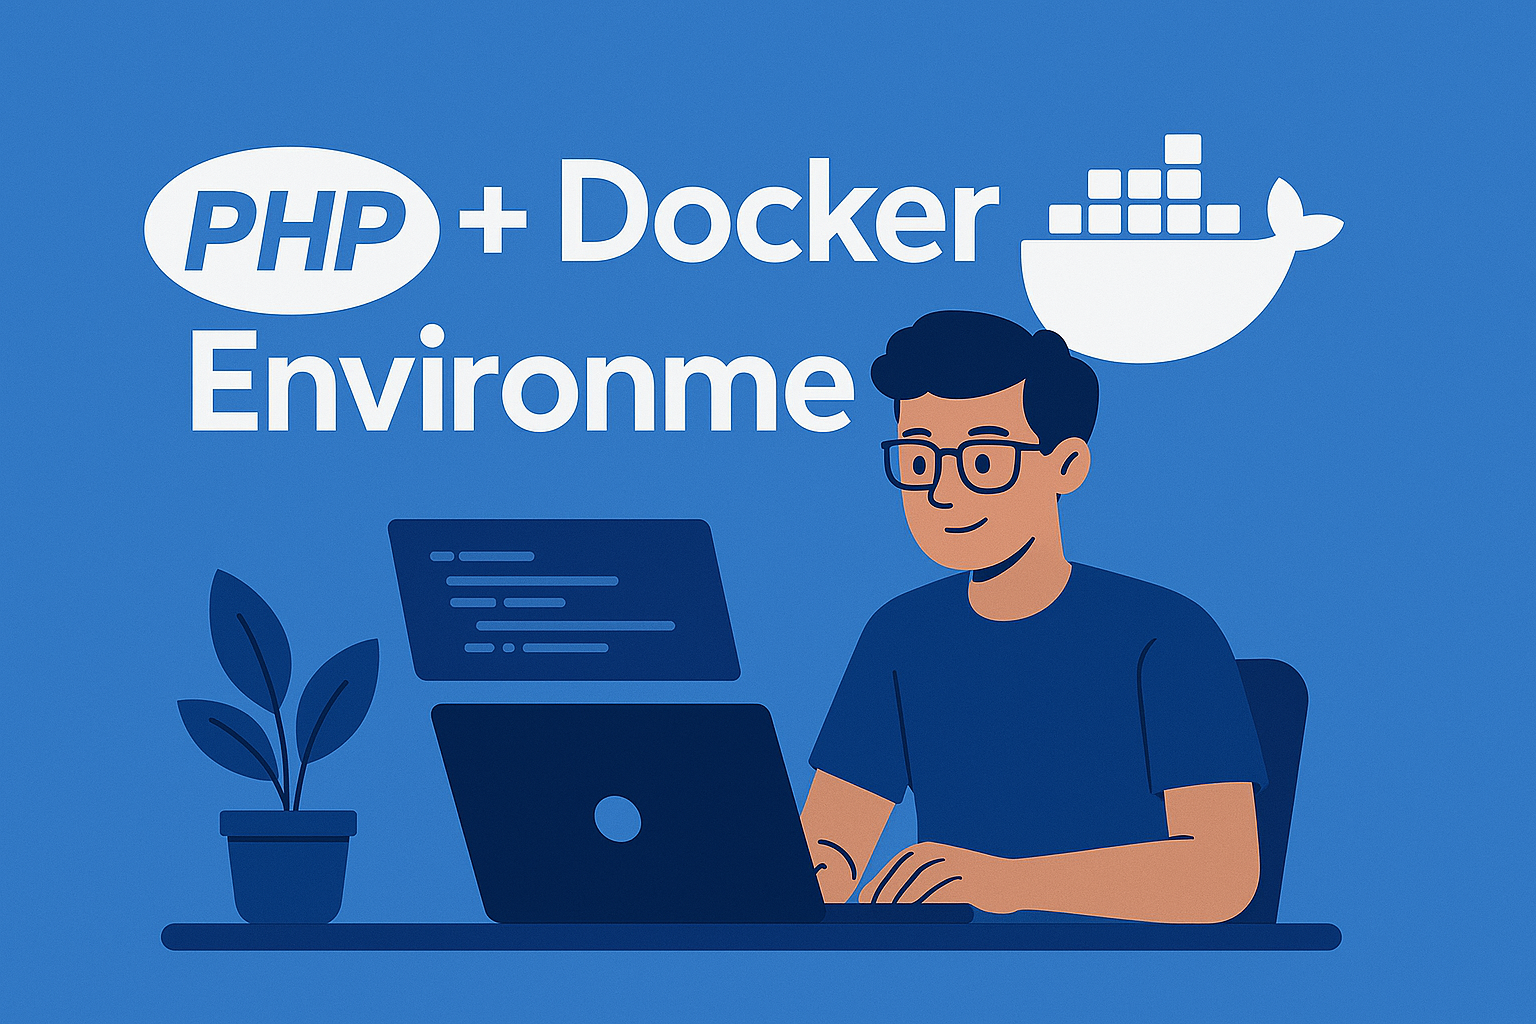
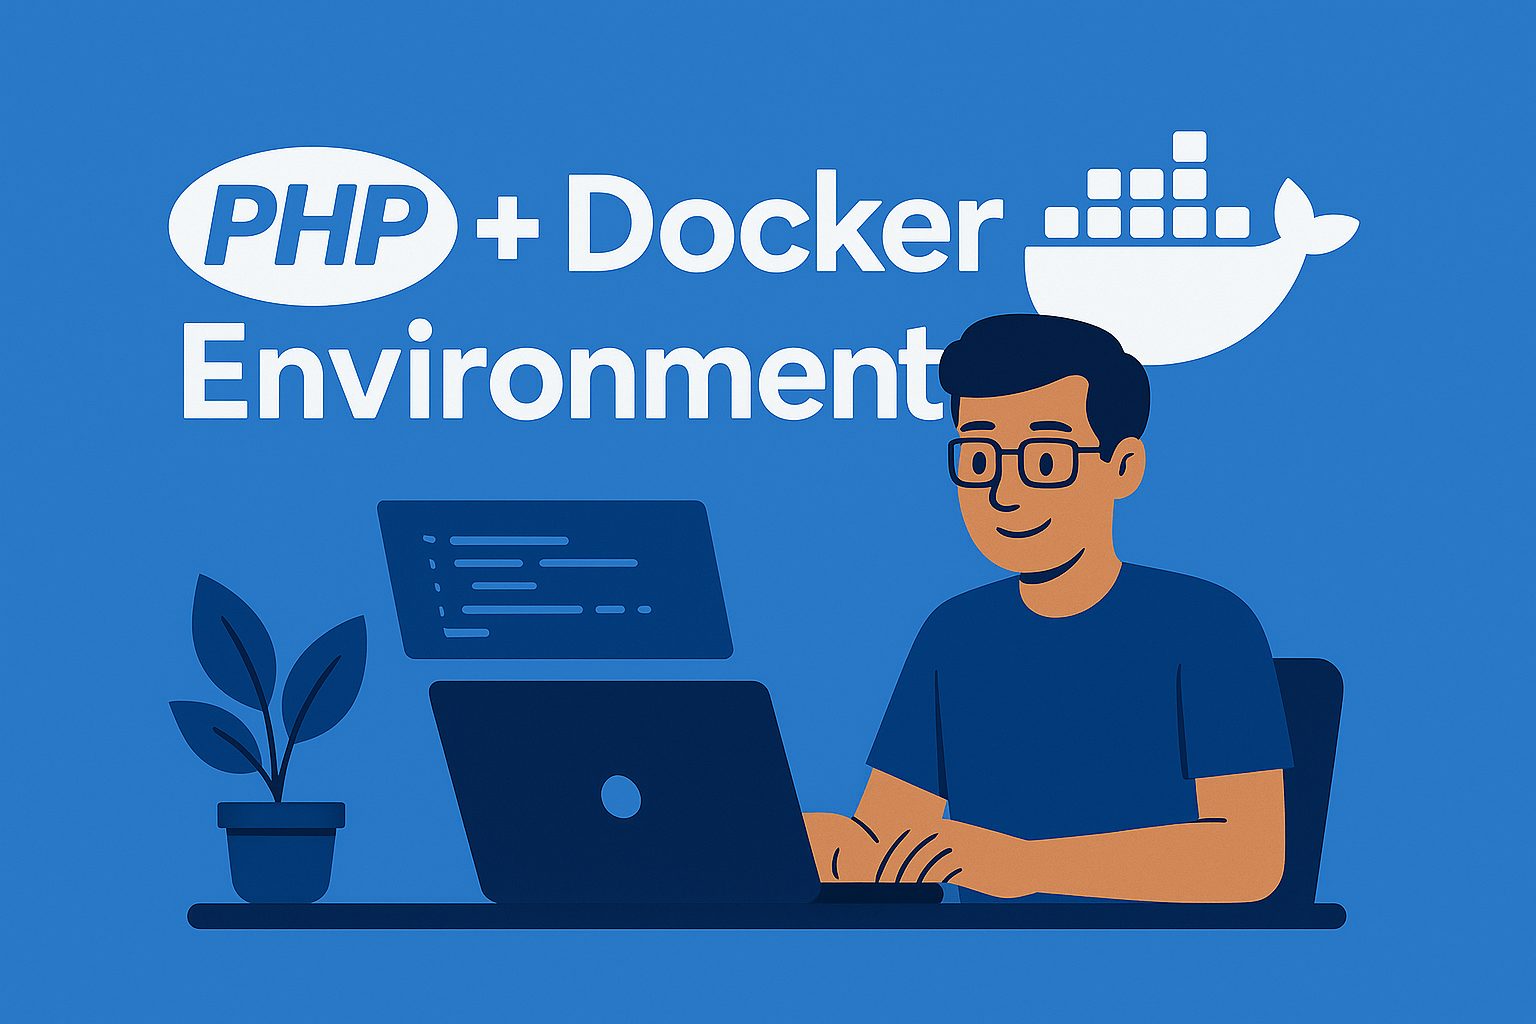
Reestruturado a tela de boas-vindas ao projeto, e ajustado a imagem do readme

Changed region(s): [[0.0938, 0.125, 0.9062, 0.9375], [0.375, 0.75, 0.4375, 0.8438]]

diff --git a/public/index.php b/public/index.php
@@ -1,4 +1,3 @@
-<?php declare(strict_types=1); ?>
 <!DOCTYPE html>
 <html lang="pt-br">
 <head>
@@ -13,7 +12,7 @@
             padding: 0;
         }
         .container {
-            max-width: 540px;
+            width: 60%;
             margin: 60px auto;
             background: #fff;
             border-radius: 12px;
@@ -21,10 +20,15 @@
             padding: 32px 28px;
             text-align: center;
         }
+        h1 {
+            font-size: 32pt;
+            margin-bottom: 4rem;
+        }
         h1, h2 {
             color: #0070f3;
-            margin-bottom: 12px;
+            margin-bottom: 2rem;
         }
+
         .tech-list {
             display: flex;
             flex-wrap: wrap;
@@ -46,7 +50,8 @@
         .desc {
             color: #444;
             font-size: 1.08em;
-            margin-bottom: 24px;
+            margin-top: 4rem;
+            margin-bottom: 4rem;
         }
         .section-title {
             font-size: 1.15em;
@@ -62,7 +67,6 @@
             padding: 18px 18px 12px 18px;
             margin: 0 auto 18px auto;
             font-size: 1em;
-            max-width: 420px;
             box-shadow: 0 1px 4px rgba(0,0,0,0.03);
         }
         .commands code {
@@ -100,13 +104,11 @@
             fill: currentColor;
         }
         .tree-struct {
-            background: #f8fafc;
+            background: #f0f4fa;
             border-radius: 8px;
             text-align: left;
             padding: 18px 18px 12px 18px;
-            margin: 32px auto 18px auto;
             font-size: 0.98em;
-            max-width: 540px;
             box-shadow: 0 1px 4px rgba(0,0,0,0.03);
             font-family: "Fira Mono", "Consolas", "Menlo", monospace;
         }
@@ -115,11 +117,42 @@
             font-style: italic;
             margin-left: 8px;
         }
+        .flex-sections {
+            display: flex;
+            gap: 32px;
+            justify-content: center;
+            align-items: flex-start;
+            margin: 32px 0 24px 0;
+        }
+        .section-block {
+            flex: 1 1 0;
+            width: 100%;
+        }
+        @media (max-width: 900px) {
+            .container {
+                width: 95%
+            }
+
+            .flex-sections {
+                flex-direction: column;
+                gap: 0;
+            }
+            .section-block {
+                max-width: 100%;
+            }
+        }
         @media (max-width: 600px) {
-            .container { padding: 18px 6px; }
+            .container {
+                width: 95%;
+                padding: 18px 6px;
+            }
+
             .tech-list li { padding: 10px 12px; font-size: 0.98em; }
+
             .commands { padding: 12px 4px 8px 8px; }
+
             .repo-link, .readme-link { font-size: 0.98em; padding: 10px 10px 10px 10px; }
+
             .tree-struct { padding: 12px 4px 8px 8px; }
         }
     </style>
@@ -127,23 +160,35 @@
 <body>
     <div class="container">
         <h1>Seja bem-vindo!</h1>
-        <h2>PHP 8.4 Docker Environment</h2>
+
+        <h2>PHP + Docker Environment</h2>
+
         <p class="desc">
             Um ambiente moderno e pronto para desenvolvimento PHP, com tudo que você precisa para criar aplicações robustas e escaláveis.<br>
             <strong>Ideal para equipes e projetos individuais!</strong>
         </p>
+
         <ul class="tech-list">
             <li>PHP 8.4 (FPM)</li>
+
             <li>Nginx</li>
+
             <li>MySQL 8.0</li>
+
             <li>Redis 7.0</li>
+
             <li>Docker &amp; Docker Compose</li>
+
             <li>Configuração via .env</li>
+
             <li>Scripts de inicialização</li>
+
             <li>Testes automatizados</li>
         </ul>
-        <div class="section-title">Estrutura do Projeto</div>
-        <pre class="tree-struct">
+        <div class="flex-sections">
+            <div class="section-block">
+                <div class="section-title">Estrutura do Projeto</div>
+                <pre class="tree-struct">
 .
 ├── docker/       <span class="comment"># Arquivos Docker</span>
 ├── docs/         <span class="comment"># Documentação do projeto</span>
@@ -154,34 +199,35 @@
 ├── .env          <span class="comment"># Arquivo de variáveis de ambiente</span>
 ├── Makefile      <span class="comment"># Ferramenta auxiliar</span>
 ├── setup.sh      <span class="comment"># Script de configuração inicial</span>
-        </pre>
-        <div class="section-title">Comandos úteis</div>
-        <div class="commands">
-            <strong>Clonar e iniciar:</strong><br>
-            <code>git clone https://github.com/Diego-Brocanelli/php-docker.git [nome_projeto]</code><br>
-            <code>cd [nome_projeto]</code><br>
-            <code>chmod +x setup.sh</code><br>
-            <code>./setup.sh</code>
-            <br><br>
-            <strong>Ambiente web completo:</strong><br>
-            <code>./setup.sh --web</code>
-            <br><br>
-            <strong>Apenas ambiente CLI (PHP + MySQL):</strong><br>
-            <code>./setup.sh --cli</code>
-            <br><br>
-            <strong>Adicionar Redis ao ambiente:</strong><br>
-            <code>./setup.sh --web --with-redis</code>
-            <br><br>
-            <strong>Usar um arquivo .env específico:</strong><br>
-            <code>./setup.sh --env meu-ambiente.env</code>
-            <br><br>
-            <strong>Ver todas as opções:</strong><br>
-            <code>./setup.sh --help</code>
-            <br><br>
-            <strong>Comandos Makefile:</strong><br>
-            <code>make up</code> — Sobe todos os containers<br>
-            <code>make down</code> — Para e remove todos os containers<br>
-            <code>make sh</code> — Sobe e acessa o bash do container PHP<br>
+                </pre>
+            </div>
+            <div class="section-block">
+                <div class="section-title">Comandos úteis</div>
+                <div class="commands">
+                    <strong>Clonar e iniciar:</strong><br>
+                    <code>git clone https://github.com/Diego-Brocanelli/php-docker.git [nome_projeto]</code><br>
+                    <code>cd [nome_projeto]</code><br>
+                    <code>chmod +x setup.sh</code><br>
+                    <code>./setup.sh</code>
+                    <br><br>
+                    <strong>Ambiente web completo:</strong><br>
+                    <code>./setup.sh --web</code>
+                    <br><br>
+                    <strong>Apenas ambiente CLI (PHP + MySQL):</strong><br>
+                    <code>./setup.sh --cli</code>
+                    <br><br>
+                    <strong>Adicionar Redis ao ambiente:</strong><br>
+                    <code>./setup.sh --web --with-redis</code>
+                    <br><br>
+                    <strong>Ver todas as opções:</strong><br>
+                    <code>./setup.sh --help</code>
+                    <br><br>
+                    <strong>Comandos Makefile:</strong><br>
+                    <code>make up</code> — Sobe todos os containers<br>
+                    <code>make down</code> — Para e remove todos os containers<br>
+                    <code>make sh</code> — Sobe e acessa o bash do container PHP<br>
+                </div>
+            </div>
         </div>
         <a class="repo-link" href="https://github.com/Diego-Brocanelli/php-docker" target="_blank">
             <!-- GitHub SVG -->
